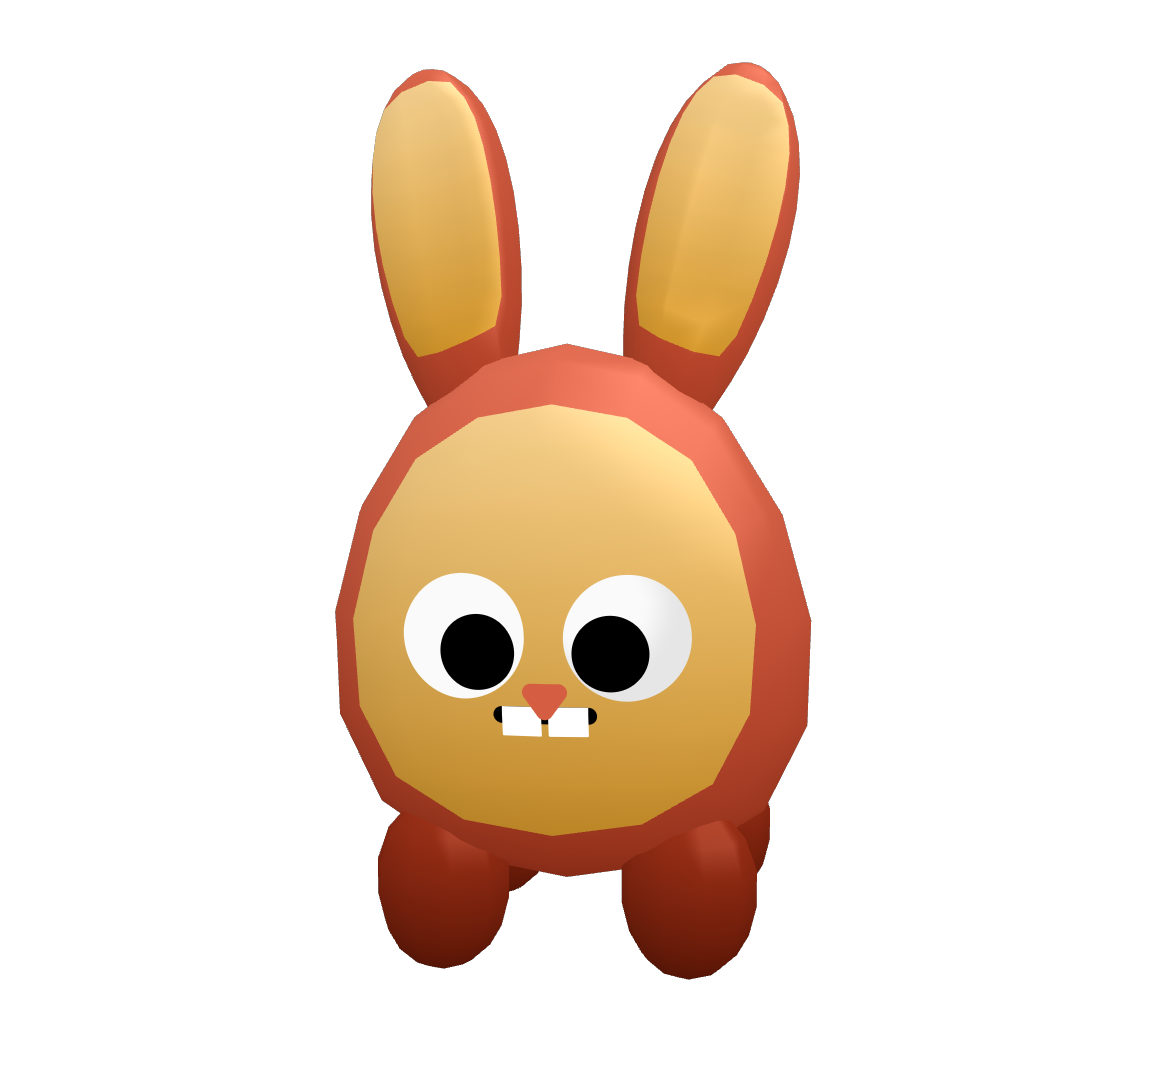
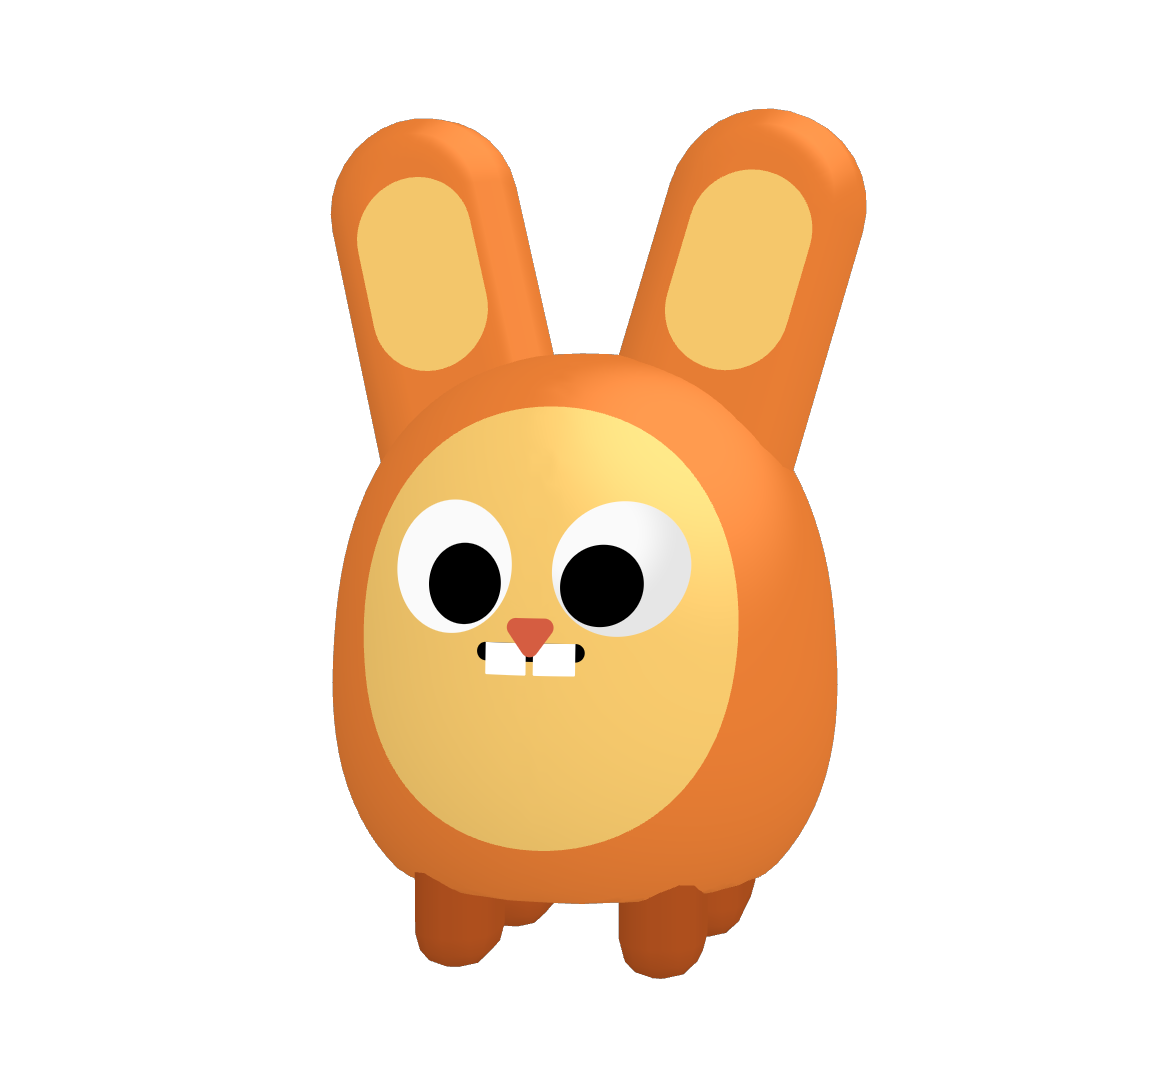
feat(ux): drop menu button labels and recapture the egg bunny hero
Remove the "A MOWING PUZZLE" ribbon and the text under the main-menu and
pause-menu round buttons so the icons carry them. Recapture menu-bunny.png
now that the hero stage uses the egg bunny.

Changed region(s): [[0.2769, 0.0611, 0.7385, 0.9167]]

diff --git a/docs/ux.html b/docs/ux.html
@@ -283,11 +283,6 @@ body {
             <div class="line h ink-shadow" style="top:0">BUNNY</div>
             <div class="line h ink-shadow" style="top:88px">HEAVEN</div>
           </div>
-          <!-- Ribbon: 183x45, Unity z -3° -->
-          <div class="abs" data-frame="Ribbon" data-fill="red" data-shadow="red-shadow"
-               style="left:50%;top:211px;width:183px;height:45px;transform:translateX(-50%) rotate(3deg)">
-            <div class="abs h" style="inset:0 0 2px 0;display:grid;place-items:center;font-size:20px;letter-spacing:.06em;color:var(--white)">A MOWING PUZZLE</div>
-          </div>
           <!-- Hero bunny: full width, 360 tall, centred 25pt below the safe middle (a live 3D render in game) -->
           <div id="mm-hero" class="abs" style="left:0;right:0;top:calc(50% + 25px - 180px);height:360px"></div>
 
@@ -295,9 +290,9 @@ body {
                style="left:50%;bottom:140px;width:300px;height:70px;margin-left:-150px">PLAY · LEVEL 1</div>
 
           <!-- Round buttons: tops 114pt above the safe bottom, centres at x 89 / 187 / 293 -->
-          <div class="abs round-btn" data-btn="levels" data-color="blue" data-icon="levels" style="top:calc(100% - 114px);left:calc(50% - 106px);transform:translateX(-50%)">LEVELS</div>
-          <div class="abs round-btn" data-btn="settings" data-color="red" data-icon="settings" style="top:calc(100% - 114px);left:calc(50% - 8px);transform:translateX(-50%)">SETTINGS</div>
-          <div class="abs round-btn" data-btn="howtoplay" data-color="green" data-icon="howtoplay" style="top:calc(100% - 114px);left:calc(50% + 98px);transform:translateX(-50%)">HOW TO PLAY</div>
+          <div class="abs round-btn" data-btn="levels" data-color="blue" data-icon="levels" style="top:calc(100% - 114px);left:calc(50% - 106px);transform:translateX(-50%)"></div>
+          <div class="abs round-btn" data-btn="settings" data-color="red" data-icon="settings" style="top:calc(100% - 114px);left:calc(50% - 8px);transform:translateX(-50%)"></div>
+          <div class="abs round-btn" data-btn="howtoplay" data-color="green" data-icon="howtoplay" style="top:calc(100% - 114px);left:calc(50% + 98px);transform:translateX(-50%)"></div>
 
           <div class="toast" style="top:calc(50% + 101.5px - 30px)"><div class="body bb" data-frame="Pill" data-fill="white" data-shadow="ink-shadow"></div></div>
         </div>
@@ -382,10 +377,10 @@ body {
             <div style="display:flex;flex-direction:column;gap:12px;align-items:center">
               <div class="big-btn" data-btn="resume" data-color="green" data-icon="play" style="width:266px;height:66px;--fs:28px">RESUME</div>
               <div style="display:flex;gap:6px;align-items:flex-start">
-                <div class="round-btn" data-btn="restart" data-color="blue" data-icon="restart" data-size="52" data-icon-size="23" style="width:62px;--fs:14px">RESTART</div>
-                <div class="round-btn" data-btn="settings" data-color="yellow" data-icon="settings" data-size="52" data-icon-size="23" style="width:62px;--fs:14px">SETTINGS</div>
-                <div class="round-btn" data-btn="levels" data-color="green" data-icon="levels" data-size="52" data-icon-size="23" style="width:62px;--fs:14px">LEVELS</div>
-                <div class="round-btn" data-btn="menu" data-color="red" data-icon="menu" data-size="52" data-icon-size="23" style="width:62px;--fs:14px">MENU</div>
+                <div class="round-btn" data-btn="restart" data-color="blue" data-icon="restart" data-size="52" data-icon-size="23" ></div>
+                <div class="round-btn" data-btn="settings" data-color="yellow" data-icon="settings" data-size="52" data-icon-size="23" ></div>
+                <div class="round-btn" data-btn="levels" data-color="green" data-icon="levels" data-size="52" data-icon-size="23" ></div>
+                <div class="round-btn" data-btn="menu" data-color="red" data-icon="menu" data-size="52" data-icon-size="23" ></div>
               </div>
             </div>
           </div>
